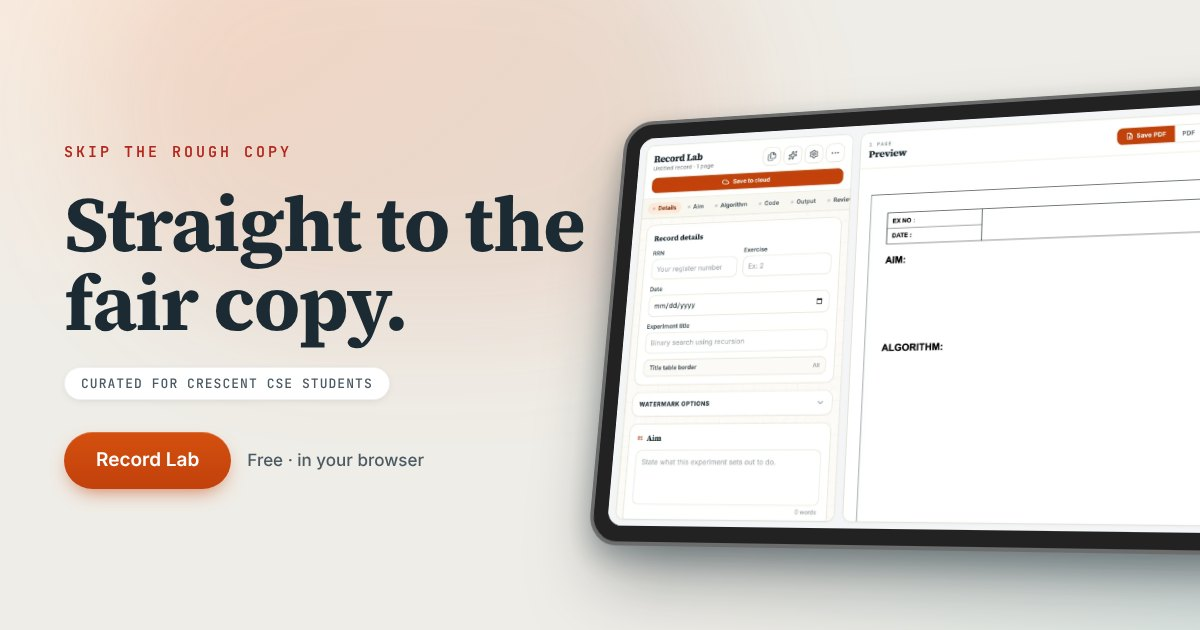
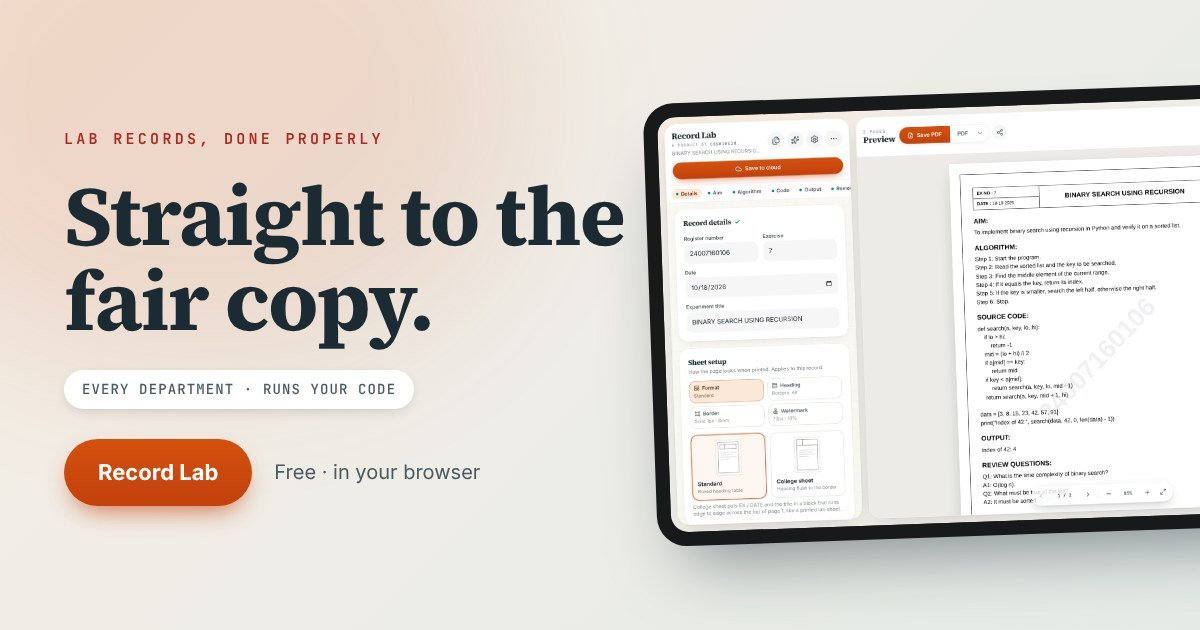
Share previews: new OG/Twitter image of the current editor and updated descriptions; credit Ridhwan for departments and code execution
Claude-Session: https://claude.ai/code/session_01VgBXX57y4qWkiti8qU8iuN

Changed region(s): [[0.0, 0.0905, 1.0, 0.9952], [0.0308, 0.2111, 0.3083, 0.2714], [0.4933, 0.0302, 0.5242, 0.0905]]

diff --git a/app/layout.tsx b/app/layout.tsx
@@ -46,17 +46,17 @@ export const metadata: Metadata = {
   creator: "Cogniheim",
   publisher: "Cogniheim",
   title: "Record Lab",
-  description: "Type your lab record once — Record Lab paginates it to true A4 pages and exports a print-ready fair copy.",
+  description: "Lab records for every department — pick your sections, run your code for real output, and export a print-ready fair copy on true A4 pages.",
   openGraph: {
     title: "Record Lab",
-    description: "Type your lab record once — Record Lab paginates it to true A4 pages and exports a print-ready fair copy.",
+    description: "Lab records for every department — pick your sections, run your code for real output, and export a print-ready fair copy on true A4 pages.",
     siteName: "Record Lab",
     type: "website",
   },
   twitter: {
     card: "summary_large_image",
     title: "Record Lab",
-    description: "Type your lab record once — Record Lab paginates it to true A4 pages and exports a print-ready fair copy.",
+    description: "Lab records for every department — pick your sections, run your code for real output, and export a print-ready fair copy on true A4 pages.",
   },
 };
 

diff --git a/components/landing/LandingPageClient.tsx b/components/landing/LandingPageClient.tsx
@@ -175,7 +175,7 @@ const contributors = [
   {
     name: "Mohammed Ridhwan S Y",
     role: "Idea contributor",
-    bio: "Suggested the Manual Calculation section: 35 blank, hand-written lines before the result, switched on per record.",
+    bio: "Ideas behind three features: Manual Calculation (35 blank hand-written lines before the result), layouts for every department, and running the code to capture real output.",
     links: [] as { label: string; href: string; icon: typeof Globe }[],
   },
 ];

diff --git a/app/manifest.ts b/app/manifest.ts
@@ -5,7 +5,7 @@ export default function manifest(): MetadataRoute.Manifest {
     id: "/",
     name: "Record Lab",
     short_name: "Record Lab",
-    description: "Type your lab record once and export a print-ready fair copy.",
+    description: "Lab records for every department: write, run your code, and export a print-ready fair copy.",
     start_url: "/editor?source=pwa",
     scope: "/",
     display: "standalone",

diff --git a/app/editor/layout.tsx b/app/editor/layout.tsx
@@ -2,7 +2,7 @@ import type { Metadata } from "next";
 
 export const metadata: Metadata = {
   title: "Editor — Record Lab",
-  description: "Type your lab record once and export a print-ready fair copy.",
+  description: "Lab records for every department: write, run your code, and export a print-ready fair copy.",
 };
 
 export default function EditorLayout({ children }: { children: React.ReactNode }) {
